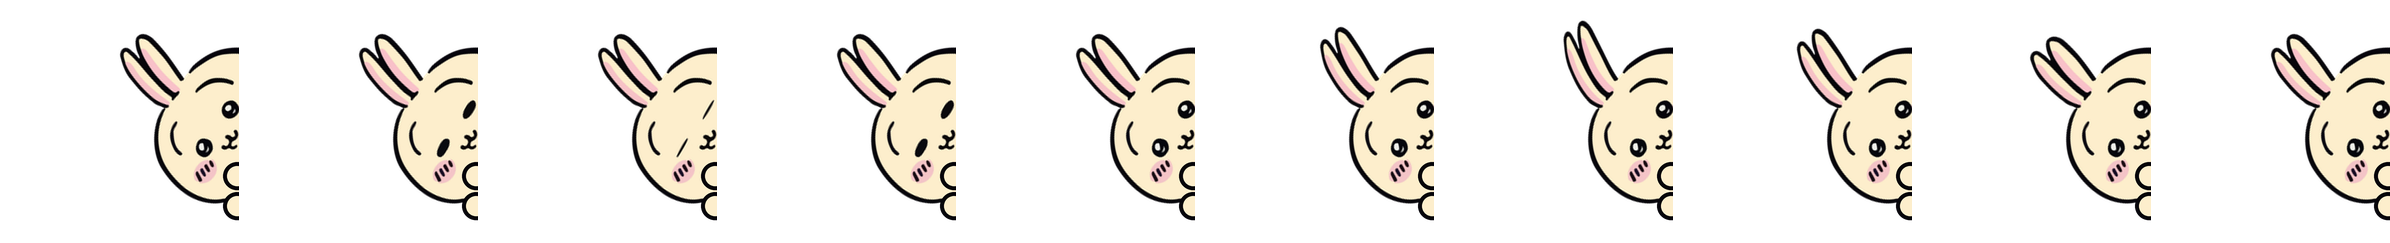
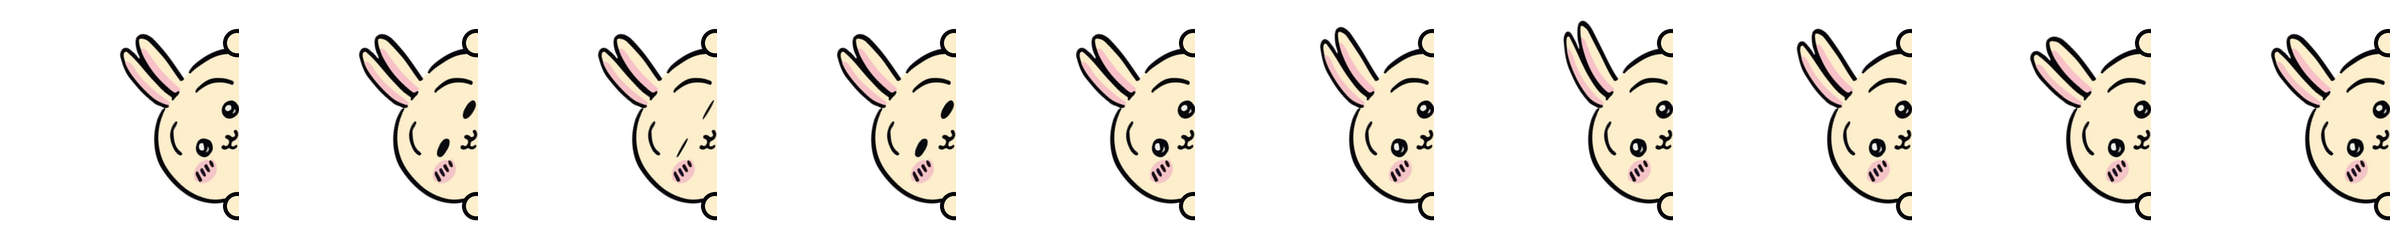
Put the two hands of the hiding picture on both sides of the face
The hands were close together at the bottom of the face. They now sit one on each
side of the face, where the outline of the head comes to the wall at the top and at
the bottom, as they sit on both sides of the face when a pet looks over a window.

Rakko's head is too high at the wall for hands of the old size, so its hands are a
little smaller and the picture is 15 px lower, and they are drawn in the colour of the
body (dark ones melt into the ear that comes to the wall at the top).

Claude-Session: https://claude.ai/code/session_01TnCzCTyCmno8xW8Zhxkbmu

diff --git a/scripts/make-peek.py b/scripts/make-peek.py
@@ -5,7 +5,8 @@ Makes the two pictures a skin hides with, from the skin's own idle pictures (the
     python3 scripts/make-peek.py            # every skin below
     python3 scripts/make-peek.py usagi      # one skin
 
-  skins/<id>/peek.png  hiding behind a wall: the pet leans out, the face turned away from the wall, two small round hands on its edge
+  skins/<id>/peek.png  hiding behind a wall: the pet leans out, the face turned away from the wall, two small round hands on its
+                       edge, one on each side of the face (where the outline of the head comes to the wall at the top and at the bottom)
   skins/<id>/hang.png  looking over the top edge of a window: the head down to just under the mouth, two small round hands on the edge
 
 Each is a sheet with a frame for every frame of "idle", and "poses.peek" and "poses.hang" are put in the skin's
@@ -16,12 +17,14 @@ The numbers below were found by looking at the pictures, so they fit these skins
             that leans out), and draws the outline across where it was. The rows and columns are where that arm is.
   peek      face: the middle of the face (the picture is turned about it); tilt: how far, in degrees; wall_dx: how far
             from the middle of the face the wall is (enough for the mouth to be in view); bottom: the row where the body
-            in view ends; hands: the middles of the two hands, how far from the wall and which row; hand_r, hand_w:
-            the inside of a hand and its outline
+            in view ends; hands: the middles of the two hands, how far from the wall and which row (the upper one at the
+            top of the stretch of wall where the head is, the lower one at the bottom, each on the outline that comes to the
+            wall there; `python3 scripts/make-peek.py` prints a warning when one is cut off by the border of the picture);
+            hand_r, hand_w: the inside of a hand and its outline
   hang      cut: the row of the idle picture just under the mouth; face_x: the middle of the face; hands_dx: how far each
             hand is from it
   The ink is the colour of the outlines, hand the colour of the hands (the colour of the body, unless the hands are
-  drawn another colour).
+  drawn another colour); peek_hand is the colour of the hands in the picture for hiding, when that differs.
 
 Sprout (skins/default) is drawn as a vector picture by hand, with the wall on the left because its art faces right:
 skins/default/peek.svg and skins/default/hang.svg. The wall is the right border of the pictures made here (the art of
@@ -175,7 +178,7 @@ SKINS = {
         ink=USAGI_INK,
         hand=USAGI_BODY,
         prepare=usagi_prepare,
-        peek=dict(face=(112, 128), tilt=60, wall_dx=23, bottom=204, hands=[(2, 176), (2, 206)], hand_r=10, hand_w=4),
+        peek=dict(face=(112, 128), tilt=60, wall_dx=23, bottom=204, hands=[(2, 43), (2, 206)], hand_r=10, hand_w=4),
         hang=dict(cut=166, face_x=118, hands_dx=62, hand_r=10, hand_w=4),
     ),
     'hachiware': dict(
@@ -184,8 +187,9 @@ SKINS = {
         prepare=hachiware_prepare,
         # face: the middle of the eyes (at (114, 162) and (186, 168)); wall_dx: the rightmost pixel of the mouth (the little
         # dash under it included) is 40.8 to the right of the face, and the wall is 2 more; bottom: the row where the lower outline
-        # of the head meets the wall, the lower hand is 2 px under it and the upper hand 2 * (r + w) + 2 above that
-        peek=dict(face=(150, 165), tilt=60, wall_dx=43, bottom=277, hands=[(2, 231), (2, 279)], hand_r=17, hand_w=6),
+        # of the head meets the wall, the lower hand is 2 px under it; the outline comes to the wall at the top at row 38, and
+        # the upper hand is 3 px above that (as far from the outline as the lower one is)
+        peek=dict(face=(150, 165), tilt=60, wall_dx=43, bottom=277, hands=[(2, 35), (2, 279)], hand_r=17, hand_w=6),
         # cut: 16 px under the last row of the mouth (212); hands_dx: the head is 207 px wide at the cut (from x 47 to 254)
         hang=dict(cut=229, face_x=150, hands_dx=86, hand_r=17, hand_w=6),
     ),
@@ -193,7 +197,7 @@ SKINS = {
         ink=CHIIKAWA_INK,
         hand=CHIIKAWA_BODY,
         prepare=chiikawa_prepare,
-        peek=dict(face=(157, 137), tilt=60, wall_dx=34, bottom=210, hands=[(2, 176), (2, 210)], hand_r=11.5, hand_w=4.5),
+        peek=dict(face=(157, 137), tilt=60, wall_dx=34, bottom=210, hands=[(2, 31), (2, 210)], hand_r=11.5, hand_w=4.5),
         hang=dict(cut=182, face_x=160.5, hands_dx=61.5, hand_r=11.5, hand_w=4.5),
     ),
     'rakko': dict(
@@ -204,9 +208,12 @@ SKINS = {
         # right ear is not clipped by the top of the frame while the picture turns (the picture is the same, only 8.7 px lower in
         # the frame); wall_dx: the rightmost pixel of the mouth (the little curve under it included) turns to 32.9 to the right of
         # the middle of the eyes and the wall is 2 more, that is 35, and 30 for the moved face; bottom: the row where the lower
-        # edge of the head meets the wall, the lower hand is 2 px under it and the upper hand 2 * (r + w) + 2 above that;
-        # the outside of a hand, 2 * (r + w) = 48, is 0.19 of the head's width (250)
-        peek=dict(face=(164, 131), tilt=60, wall_dx=30, bottom=272, hands=[(2, 224), (2, 274)], hand_r=18, hand_w=6),
+        # edge of the head meets the wall. The head is 262 px high at the wall, and a hand has to be on the outline at each end
+        # of that: with hands of 48 px (r 18, w 6) it does not fit in the 310 px of the picture, so they are 40 px (r 15, w 5),
+        # and the picture is 15 px lower than it would be (bottom 272 + 15). The upper hand is on the dark ear that comes to the
+        # wall there, so that the hands are drawn in the colour of the body (peek_hand): dark ones would melt into the ear.
+        peek=dict(face=(164, 131), tilt=60, wall_dx=30, bottom=287, hands=[(2, 24), (2, 286)], hand_r=15, hand_w=5),
+        peek_hand=RAKKO_BODY,
         # cut: 12 px under the last row of the mouth (167), just above the top of the scarf (178); face_x: the middle of the head
         # at the cut (from x 43 to 269; the middle of the eyes is 2 px to the left of it); hands_dx: 0.85 of half of that width
         hang=dict(cut=179, face_x=156, hands_dx=96, hand_r=18, hand_w=6),
@@ -225,7 +232,7 @@ def make(skin, cfg):
         bigs = [cfg['prepare'](b) for b in bigs]
     ink, hand = cfg['ink'], cfg['hand']
     pictures = {
-        'peek': pa.peek_frames(bigs, (W, H), hand_fill=hand, ink=ink, **cfg['peek']),
+        'peek': pa.peek_frames(bigs, (W, H), hand_fill=cfg.get('peek_hand', hand), ink=ink, **cfg['peek']),
         'hang': pa.hang_frames(bigs, (W, H), feet=feet, hand_fill=hand, ink=ink, **cfg['hang']),
     }
     for pose, result in pictures.items():

diff --git a/scripts/peek_art.py b/scripts/peek_art.py
@@ -5,7 +5,8 @@ Two pictures are made from a skin's own "idle" frames (the same frames, so the b
 
   peek  the pet leans out from behind a wall that stands at the right border of the picture. The whole picture is
         turned counter-clockwise about the middle of the face, so that the face tilts away from the wall and the
-        body goes behind it by itself; the wall cuts the picture there. Two small round hands ("O") hold the edge.
+        body goes behind it by itself; the wall cuts the picture there. Two small round hands ("O") hold the edge, one
+        on each side of the face: where the outline of the head comes to the wall at the top, and at the bottom.
   hang  the pet looks over the top edge of a window: the head from the ears down to just under the mouth, cut flat
         along the bottom of the picture (the edge), with two small round hands on that edge, one on each side.
 
@@ -119,7 +120,8 @@ def peek_frames(bigs, size, tilt, face, wall_dx, bottom, hands, hand_r, hand_w, 
     One picture for each of `bigs` (frames SS times as big, with whatever sticks out already taken off).
     tilt: degrees counter-clockwise, about `face` (x, y in frame pixels: the middle of the face).
     wall_dx: how far to the right of `face` the wall is. bottom: the row of the lowest thing of the body in view (in the
-    first frame; nothing jumps when the ears move). hands: [(x, y)] the middles of the hands, x from the wall.
+    first frame; nothing jumps when the ears move). hands: [(x, y)] the middles of the hands, x from the wall: the
+    first at the top of the face, the second at the bottom, each on the outline of the head where it comes to the wall.
     """
     W, H = size
     out = []
